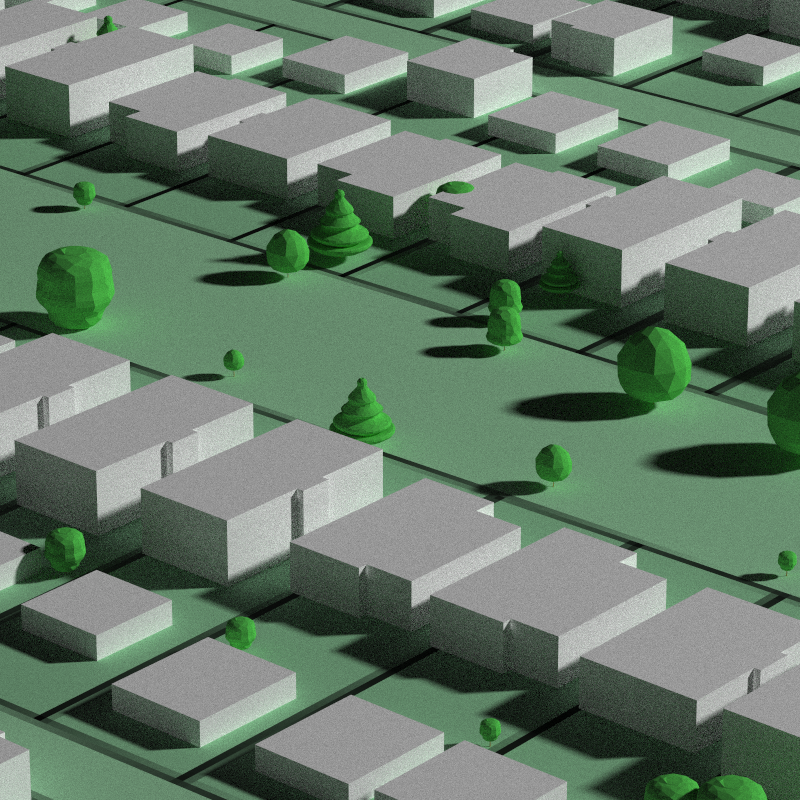
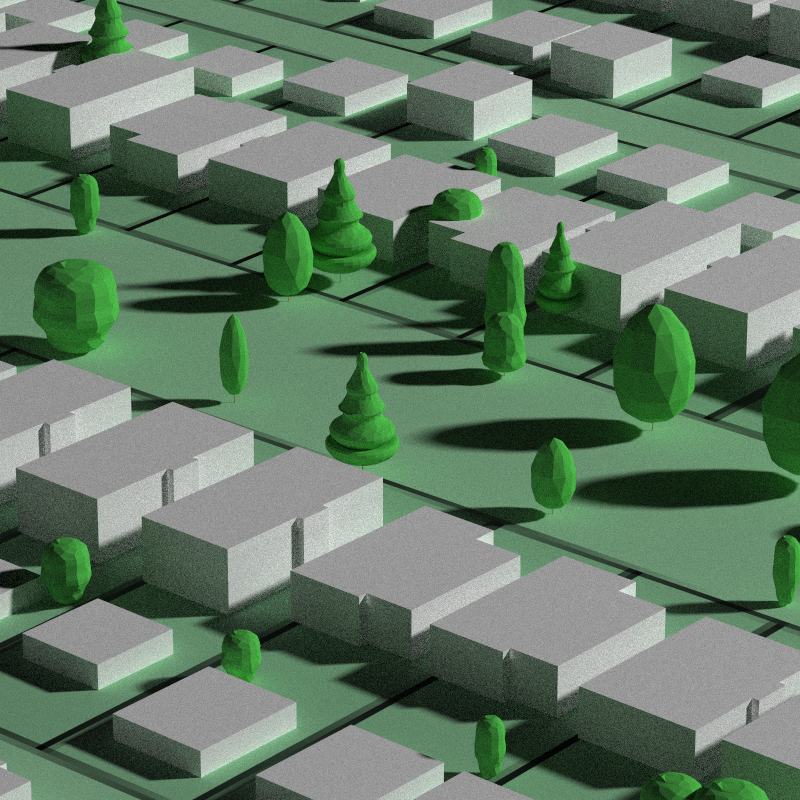
-Update README with new examples -Add defaults for trunk/crown ratios

diff --git a/README.md b/README.md
@@ -134,9 +134,8 @@ for(i in seq_len(nrow(baseline_tree))) {
   latlongheight = as.matrix(st_geometry(single_tree_info)[[1]])
   render_tree(long = latlongheight[1], lat = latlongheight[2], 
               extent = ext(dem), heightmap = dem_mat, 
-              crown_height = single_tree_info$Diameter - 1,
-              crown_width_ratio = 1,
-              trunk_height = 1,
+              tree_height = single_tree_info$Height,
+              crown_width = single_tree_info$Diameter,
               custom_obj_crown = get_crown_file(tree = single_tree_info$CrownType),
               custom_obj_trunk = get_trunk_file())
 }
@@ -156,9 +155,8 @@ for(i in seq_len(nrow(baseline_tree))) {
   latlongheight = as.matrix(st_geometry(single_tree_info)[[1]])
   render_tree(long = latlongheight[1], lat = latlongheight[2], 
               extent = ext(dem), heightmap = dem_mat, 
-              crown_height = single_tree_info$Diameter - 1,
-              crown_width_ratio = 1,
-              trunk_height = 1,
+              tree_height = single_tree_info$Height,
+              crown_width = single_tree_info$Diameter,
               custom_obj_crown = get_crown_file(tree = single_tree_info$CrownType,
                                                 solid = TRUE),
               custom_obj_trunk = get_trunk_file())
@@ -177,5 +175,94 @@ render_highquality(min_variance = 1e-6,
 ```
 
 <img src="man/figures/README-hq-2.png" width="100%" />
+
+We can also extract 3D tree information from lidar data using the lidR
+package and use that data to generate 3D trees. Here, we’ll use random
+trees from the package to fill in our scene.
+
+``` r
+library(lidR)
+library(sf)
+library(terra)
+
+#We will use the lidR package to generate a DEM and detect the crown tops of trees, and
+#then use rayshader to render 3D tree models scaled to those heights on the map.
+#Load the example data from the lidR package
+LASfile = system.file("extdata", "Topography.laz", package="lidR")
+las = lidR::readLAS(LASfile, filter = "-inside 273450 5274350 273550 5274450")
+
+#Convert the lidar point data to a DEM and detect the location of trees from the same data
+dem = lidR::rasterize_terrain(las, algorithm = lidR::tin())
+tree_top_data = lidR::locate_trees(las, lidR::lmf(ws = 5))
+tree_locations = sf::st_coordinates(tree_top_data)
+
+#Convert DEM to a matrix and extract the extent of the scene
+dem_matrix = raster_to_matrix(dem)
+dem_extent = terra::ext(dem)
+extent_values = dem_extent@ptr$vector
+
+#Plot the ground
+dem_matrix |>
+  height_shade() |>
+  add_shadow(texture_shade(dem_matrix),0.2) |>
+  add_shadow(lamb_shade(dem_matrix),0) |>
+  plot_3d(dem_matrix, windowsize = 800, zscale = 2)
+render_snapshot()
+```
+
+<img src="man/figures/README-lidar-1.png" width="100%" />
+
+``` r
+
+#Get tree data
+tree_df = tree3d::get_tree_data()
+tree_df
+#>          name solid_available trunk_color tree_color trunk_crown_ratio
+#> 1    columnar            TRUE     #8C6F5B    #A2C683         0.3333333
+#> 2  pyramidal1            TRUE     #8C6F5B    #066038         0.1666667
+#> 3  pyramidal2            TRUE     #8C6F5B    #447765         0.1666667
+#> 4        oval            TRUE     #8C6F5B    #CBD362         0.3333333
+#> 5        palm           FALSE     #8C6F5B    #CCB471         0.5000000
+#> 6     rounded           FALSE     #8C6F5B    #7CB262         0.3333333
+#> 7  spreading1            TRUE     #8C6F5B    #DB8952         0.3333333
+#> 8  spreading2           FALSE     #8C6F5B    #E0A854         0.3333333
+#> 9        vase           FALSE     #8C6F5B    #75C165         0.3333333
+#> 10    weeping            TRUE     #8C6F5B    #AECCB1         0.3333333
+
+set.seed(1)
+random_trees = tree_df[sample(1:10, nrow(tree_locations), replace=TRUE),]
+random_trees$solid_available = ifelse(random_trees$solid_available, 
+                                      sample(c(TRUE,FALSE),1),
+                                      FALSE)
+head(random_trees)
+#>           name solid_available trunk_color tree_color trunk_crown_ratio
+#> 9         vase           FALSE     #8C6F5B    #75C165         0.3333333
+#> 4         oval            TRUE     #8C6F5B    #CBD362         0.3333333
+#> 7   spreading1            TRUE     #8C6F5B    #DB8952         0.3333333
+#> 1     columnar            TRUE     #8C6F5B    #A2C683         0.3333333
+#> 2   pyramidal1            TRUE     #8C6F5B    #066038         0.1666667
+#> 7.1 spreading1            TRUE     #8C6F5B    #DB8952         0.3333333
+
+render_camera(theta=45,phi=30,zoom=0.3,fov=90, shift_vertical = -10)
+for(i in seq_len(nrow(tree_locations))) {
+  trunk_ratio_single = tree_df$trunk_crown_ratio[which(tree_df$name == random_trees[i,1])]
+  render_tree(lat = tree_locations[i,2], long = tree_locations[i,1],
+              custom_obj_crown = get_crown_file(random_trees[i,1], resolution = "high",
+                                                solid = random_trees[i,2]),
+              custom_obj_trunk = get_trunk_file(),
+              absolute_height = TRUE, 
+              tree_height = tree_locations[i,3],
+              trunk_height_ratio = trunk_ratio_single,
+              crown_width_ratio = 0.75 + 0.25 * runif(1),
+              crown_color = random_trees[i,4],
+              angle = c(0,360*runif(1),0),
+              extent = dem, 
+              zscale = 2, 
+              heightmap = dem_matrix)
+}
+render_snapshot()
+```
+
+<img src="man/figures/README-lidar-2.png" width="100%" />
 
 ## Acknowledgements
